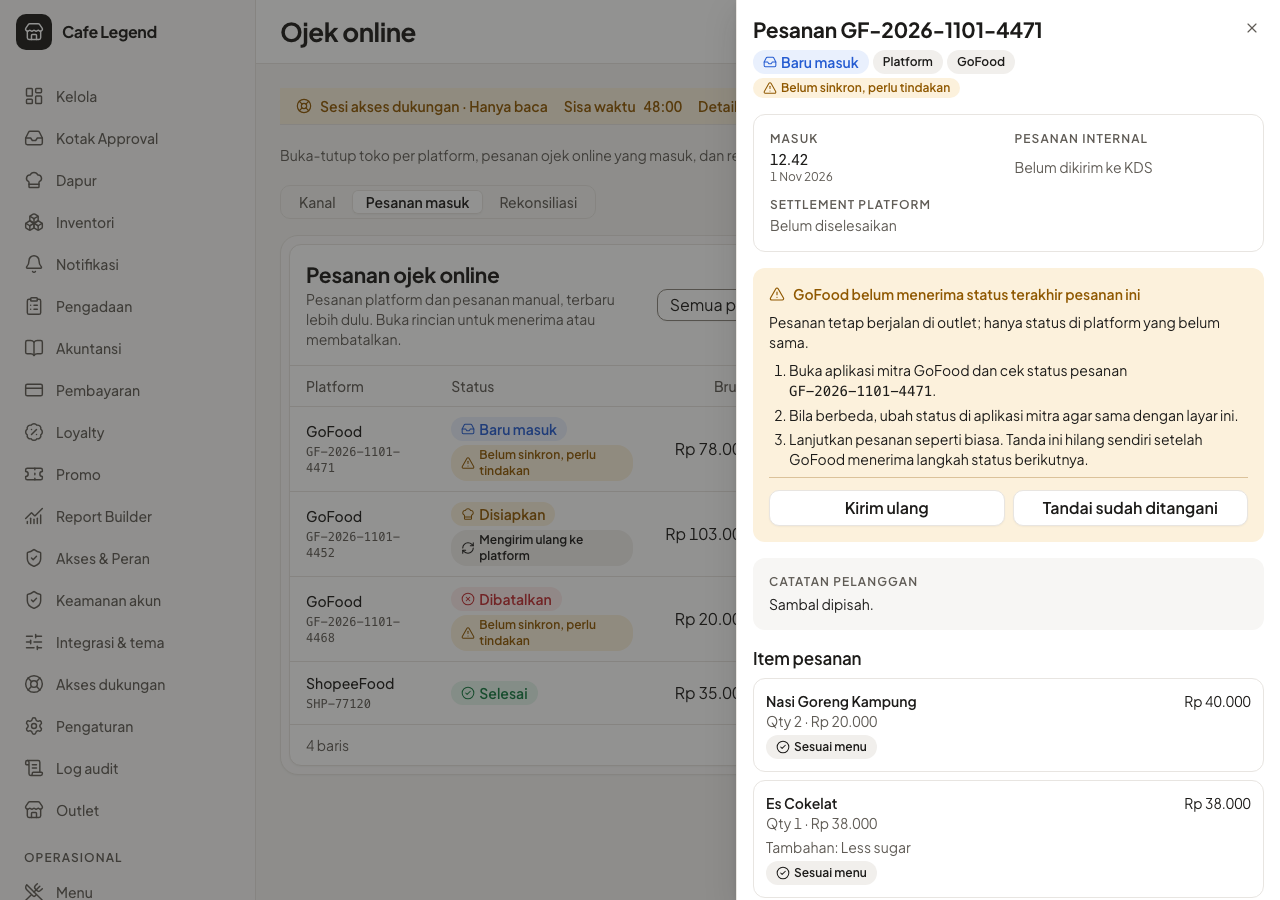
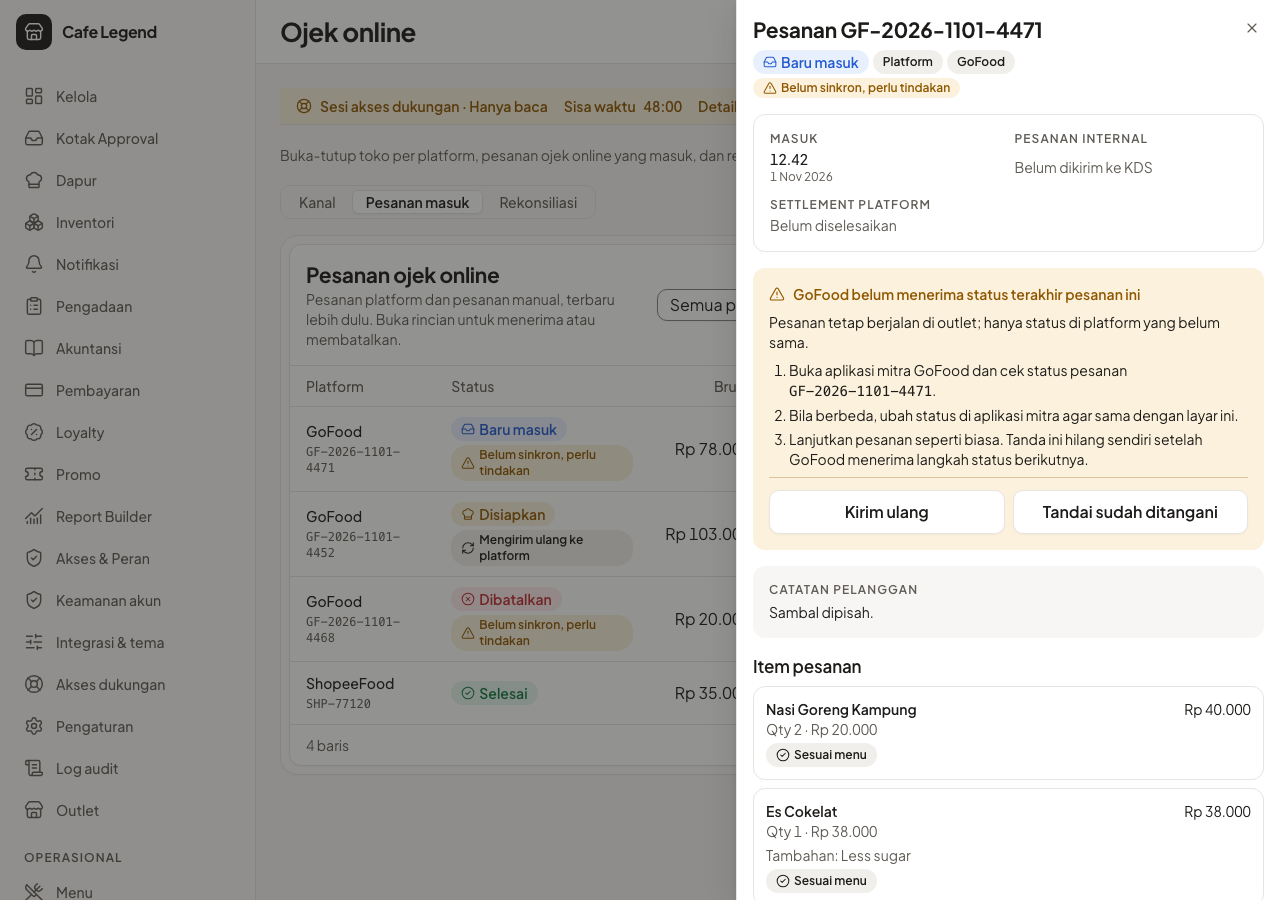
fix(delivery): sync action buttons min 44px on touch (legend-u37u3)

Changed region(s): [[0.5938, 0.7156, 0.9688, 1.0], [0.5938, 0.56, 1.0, 0.6844], [0.9062, 0.7467, 0.9688, 0.8089]]

diff --git a/apps/web/src/features/ws08-delivery/components/order-detail-sheet.tsx b/apps/web/src/features/ws08-delivery/components/order-detail-sheet.tsx
@@ -245,6 +245,7 @@ function PlatformSyncActions({
           </FormField>
           <div className="flex flex-wrap gap-2">
             <Button
+              className="min-h-11"
               type="button"
               variant="ghost"
               disabled={busy}
@@ -259,6 +260,7 @@ function PlatformSyncActions({
               {t("common.cancel")}
             </Button>
             <Button
+              className="min-h-11"
               type="button"
               variant="outline"
               loading={resolve.isPending}
@@ -292,6 +294,7 @@ function PlatformSyncActions({
       {!confirming && (
         <div className="grid gap-2 sm:grid-cols-2">
           <Button
+            className="min-h-11"
             type="button"
             variant="outline"
             loading={resend.isPending}
@@ -301,6 +304,7 @@ function PlatformSyncActions({
             {t("deliveryOps.platformSync.resend")}
           </Button>
           <Button
+            className="min-h-11"
             ref={resolveButton}
             type="button"
             variant="outline"

diff --git a/e2e/legend-u37u3.mock.spec.ts b/e2e/legend-u37u3.mock.spec.ts
@@ -160,6 +160,19 @@ test("u37u3 detail: pesanan needs_action memuat catatan dan tiga langkah", async
   await expect(note.getByRole("button", { name: MARK_HANDLED })).toBeVisible();
 });
 
+test("u37u3 tombol sinkron: tinggi minimal 44 px di ponsel", async ({
+  page,
+}) => {
+  await page.setViewportSize({ width: 390, height: 844 });
+  const sheet = await openDetail(page, NEEDS_ACTION_ID);
+  for (const name of [RESEND, MARK_HANDLED]) {
+    const box = await sheet
+      .getByRole("button", { name, exact: true })
+      .boundingBox();
+    expect(box?.height ?? 0).toBeGreaterThanOrEqual(44);
+  }
+});
+
 test("u37u3 detail: pesanan retrying hanya memuat teks kirim ulang", async ({
   page,
 }) => {
